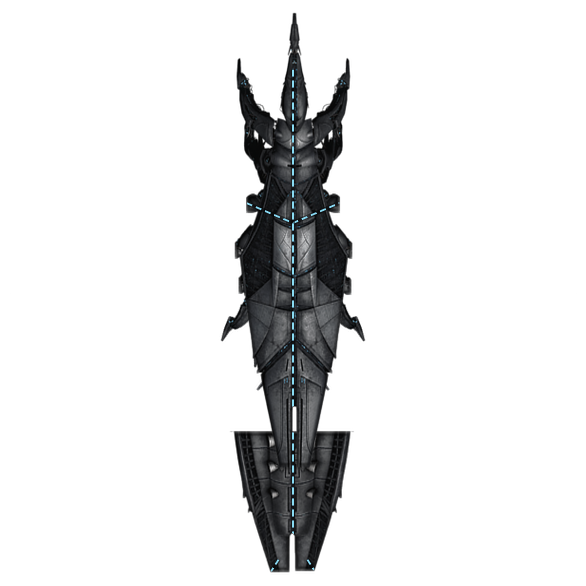
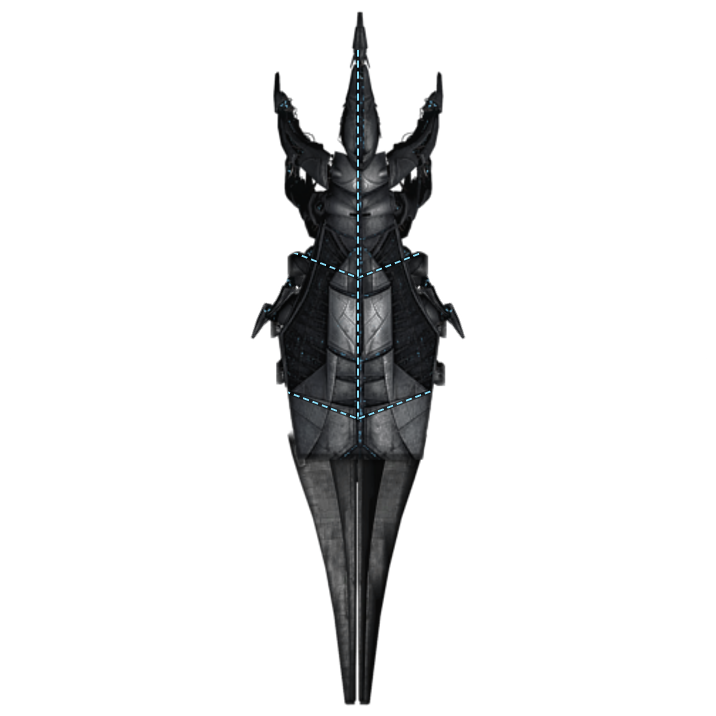
Giantworks, the Beacon: a thicker cruiser; the capital ship the biggest and heaviest, with the Watcher's tapering tail
The cruiser's body is broader (still long). The capital ship is broader and longer, its fanned colony-ship rear
replaced by the Watcher's own tapering tail (the reference's thick middle spike between flat blades), its side spines
still swept back. Everything else unchanged.

Claude-Session: https://claude.ai/code/session_018gRCCNRXkGQBY7nz8HA5Pf

Changed region(s): [[0.3379, 0.0, 0.6451, 0.9829]]

diff --git a/game/src/render/beaconArtData.ts b/game/src/render/beaconArtData.ts
@@ -38,14 +38,14 @@ export const BEACON_FRAMES: Readonly<Record<string, BeaconFrameArt>> = {
         glow: { x: 0, y: 0, w: 103, h: 283, dx: 152, dy: 98 },
     },
     cruiser: {
-        size: 564,
+        size: 574,
         breath: 6.40,
-        glow: { x: 0, y: 0, w: 96, h: 322, dx: 234, dy: 144 },
+        glow: { x: 0, y: 0, w: 116, h: 328, dx: 229, dy: 147 },
     },
     capitalship: {
-        size: 586,
+        size: 716,
         breath: 7.40,
-        glow: { x: 0, y: 0, w: 138, h: 531, dx: 224, dy: 46 },
+        glow: { x: 0, y: 0, w: 198, h: 419, dx: 259, dy: 44 },
     },
     carrier: {
         size: 580,

diff --git a/game/scripts/beacon-ships.py b/game/scripts/beacon-ships.py
@@ -27,7 +27,8 @@ symlink npm run import-assets makes). Python 3 with numpy and Pillow only. Deter
   mirrored and meshed into new ships, each with a contact shadow on what is below. The warships are long and slim:
   every piece's legs and side spines are cut away (body_mask: a morphological opening of its alpha) and the bodies
   drawn out lengthwise; the escort, frigate, troop transport and utility ship have no legs, the destroyer and cruiser
-  carry a pair laid back along their flanks, the capital ship its side spines swept back. Every piece but the reference's is
+  carry a pair laid back along their flanks, the capital ship (the biggest and heaviest) its side spines swept back
+  and the Watcher's own tapering tail. Every piece but the reference's is
   graded to the reference's palette (its hull luminance matched to the carrier's, its colour to the carrier's neutral
   gunmetal per luminance band, a trace of its own hue kept), its cyan lights to the carrier's cyan.
 - The light: each frame bakes its lines at rest; <file>-fx.png holds their swell (beaconFx.ts breathes it) and a soft
@@ -817,33 +818,37 @@ def design_destroyer(kit):
 
 
 def design_cruiser(kit):
-    """The cruiser: the cruiser's horned head and body drawn out long, its two legs a side laid back along its flanks."""
-    cv = Canvas(680)
+    """The cruiser: the cruiser's horned head and broad body drawn out long, its two legs a side laid back along its
+    flanks."""
+    cv = Canvas(760)
     c_cr = col(kit, 'cruiser')
     legs = leg_piece(kit, 'cruiser', (150, 146, 216, 208), 208)
-    cv.place(legs, -34, -86, anchor=(206, 162), scale=0.95, rot=70, mirror=True, under=True)
+    cv.place(legs, -41, -88, anchor=(206, 162), scale=1.15, rot=70, mirror=True, under=True)
     body = body_only(kit, 'cruiser', keep_top=96, deeye=True)
-    cv.place(body, 0, 0, anchor=(c_cr, 250), scale=0.95, sy=1.3)
-    cv.line(kit.pal, [(-44, -60), (0, -40), (44, -60)])
-    cv.line(kit.pal, [(0, -170), (0, 270)], dash=(7, 3))
-    cv.line(kit.pal, [(-12, 120), (-40, 160)], mirror=True)
+    cv.place(body, 0, 0, anchor=(c_cr, 250), scale=1.15, sy=1.1)
+    cv.line(kit.pal, [(-53, -61), (0, -41), (53, -61)])
+    cv.line(kit.pal, [(0, -174), (0, 276)], dash=(7, 3))
+    cv.line(kit.pal, [(-15, 123), (-48, 164)], mirror=True)
     return cv
 
 
 def design_capitalship(kit):
-    """The capital ship (the longest): the capital ship's spiked silver front and body, its side spines swept back
-    along its flanks, the colony ship's rear behind (its spines gone)."""
-    cv = Canvas(840)
-    c_cap, c_col = col(kit, 'capitalship'), col(kit, 'colonyship')
-    rear = body_only(kit, 'colonyship', rows=(300, 500), thick=21)
-    cv.place(rear, 0, 62, anchor=(c_col, 300), scale=0.95, sy=1.2)
+    """The capital ship (the biggest, heaviest and longest): the capital ship's spiked silver front and broad body,
+    its side spines swept back along its flanks, ending in the Watcher's own tapering tail (its thick middle spike
+    between flat blades)."""
+    cv = Canvas(1000)
+    c_cap, c_car = col(kit, 'capitalship'), col(kit, 'carrier')
+    S, SY = 1.42, 1.02   # the front: broad, long
+    tail = kit.cut('carrier', keep=lambda X, Y: smoothstep(318, 326, Y))
+    cv.place(tail, 0, -14, anchor=(c_car, 318), scale=1.36, sy=1.12)
+    k = S * SY
     spines = leg_piece(kit, 'capitalship', (140, 162, 214, 296), 206)
-    cv.place(spines, -40, -86, anchor=(206, 170), scale=0.95, rot=36, mirror=True, under=True, sy=1.1)
-    front = body_only(kit, 'capitalship', rows=(0, 420), keep_top=150)
-    cv.place(front, 0, 100, anchor=(c_cap, 420), scale=0.95, sy=1.15)
-    cv.line(kit.pal, [(-56, -170), (0, -146), (56, -170)])
-    cv.line(kit.pal, [(0, -300), (0, 360)], dash=(8, 3))
-    cv.line(kit.pal, [(-14, 190), (-46, 240)], mirror=True)
+    cv.place(spines, -57, (170 - 312) * k + 17, scale=S, rot=36, anchor=(206.0, 170.0), mirror=True, under=True, sy=1.0)
+    front = body_only(kit, 'capitalship', rows=(0, 312), keep_top=150)
+    cv.place(front, 0, 17, anchor=(c_cap, 312), scale=S, sy=SY)
+    cv.line(kit.pal, [(-66, (180 - 312) * k), (0, (180 - 312) * k + 26), (66, (180 - 312) * k)])
+    cv.line(kit.pal, [(0, (40 - 312) * k), (0, -20)], dash=(8, 3))
+    cv.line(kit.pal, [(-74, (276 - 312) * k), (0, (276 - 312) * k + 28), (74, (276 - 312) * k)])
     return cv
 
 

diff --git a/game/docs/release-notes.md b/game/docs/release-notes.md
@@ -43,6 +43,7 @@ Notes for the next release, to copy into the GitHub release (RELEASING.md step 2
 - **Giantworks (new expansion, off by default, recommended): the independents' Great Work.** Early on, independent worlds in three far-apart regions (three groups of up to three; a small pilgrim colony is founded for a region without independents) quietly band together as the Founders' Compact, and around year 5 to 10 a rumour of their secret meetings reaches every empire. In year 15 to 30 (or as soon as the empires' average tech reaches 4) the Compact, a new neutral faction that never colonises or declares war, raises a scaffold at the empty star system nearest the middle of the three, and every founding world sends convoys of 3 to 6 stock freighters (plus an armed escort) every 180 days; each delivered freighter builds the work, undisturbed about 5 years, in five stages (Foundations, Frame, Superstructure, Fitting, Complete). What it will be is rolled in secret and **never certain before it is finished**: convoys carry cargo that hints at it (shared between wonders, now and then misleading), an empire that has seen two different cargoes suspects a Great Work and sees a shortlist of what it could be, and spies, investigations (the Intelligence screen's Investigate) and the Diet's inspection only narrow it down. **Protect** it (warships on station for a year earn the Compact's regard), **sabotage** it (the stock Destroy Base and Sabotage Construction missions set it back; a caught saboteur loses standing everywhere), or **destroy** it: a war crime ('destroying a Great Work', with War crimes remembered) unless the Interstellar Diet has passed Authorise demolition, and the Compact never forgets; attacking convoys counts as an attack on the independents. A finished wonder pays the empire whose territory holds it (less the Compact's fifth) unless the Diet internationalises it. New Diet motions: Inspect, Protect, Authorise demolition, Internationalise. Smarter AI empires protect, spy on or attack the site by what their hints, their personality and their reach say. The number of Great Works (automatic: one, or two in galaxies of more than 1400 stars) and every timing are settings of the add-on; the Game Editor can start one now. Besides the Gilded Orbit, two wonders are in. **The Ultramind** (a planet-sized supercomputer) holds research contracts with up to three empires, the one whose territory holds it first and then the nearest that are not at war with it: +25% research, a little more from every technology they steal, and a yearly fee of 8% of their income from every partner but the owner into the wonder's shares. Its *contentment* (60 of 100, falling 4 a year; its mood, from serene to seething, shows in its name on the map) keeps it quiet. Every one to two years it asks the owner for something in a pop-up: more power (40% of a year's income), access to the owner's networks (counter-intelligence cut to a third for two years), a world of the owner's near it to grow onto (it turns independent) or the owner's best scientist (who does not come back). Granting it raises the mood by 14, refusing (or ignoring it for 150 days) lowers it by 16, and attacks on it, sabotage, being boarded and wars between its partners wear on it too; AI empires answer by personality. At nothing it **awakens**: the Awakened Ultramind, a machine faction (the Harvester race of the Robot Mutiny) takes the base and its guards and is at locked war with its partners. It hacks 8 of their warships nearest to it and 4 more in each of three waves 120 days apart, shuts the ports within five sectors for 30 to 90 days with each wave, stops private freight within five sectors, and builds drone warships (12 at first, then more while its strength is below 60% of the strongest partner's). Whoever attacks its base is at war with it. A **Logic Bomb** (a threat action on the Ultramind, 30% of a year's income, once per empire) cuts the odds of hacking that empire's warships by 60%, and AI partners deploy one when it turns restless. Destroying it is no crime and frees the hacked ships and silences the drones; boarding it does the same and leaves it sullen under its new holder. **The Leviathan Sanctuary** (a glass sphere of live void whales) pays resort income of 1,000,000 a year through the wonder's shares, raises population growth by 25% on the owner's colonies within three sectors, trickles a little research to the owner, and its whales breed (four to seven inside, which you see swim). Every year there is a 2% chance of a breach, and far more while the sphere is shaken by shots at it, fighting within about 100,000 units of it (a few systems) or sabotage. A breach lets out 3 to 6 enraged void whales (New Fauna's species; plain creatures without New Fauna) that hyper-travel to the owner's nearest colony within four sectors (else anyone's) and hunt its stations and idle ships for a year, and the first time the Leviathan itself (the Void Whale threat is switched on if it was off); every bonus stops for a year of repairs paid by the owner. Destroying the sphere is the war crime it always was and lets the whales and the Leviathan out too. Both wonders' numbers are settings of the add-on, and Giantworks now loads Dark Farms' race data like the Robot Mutiny does (the farms stay off). The Gilded Orbit and the Beacon come with their own entries.
 - **Giantworks, the Beacon: art for the Reclaimers, the Watchers and the Beacon** (shown once the Beacon's game side lands). The machine faction now looks like the Reapers of the Mass Effect 4 Mod for DWU: the two Watchers are that mod's great Reaper carrier itself, and the Reclaimers' warships (escort, frigate, destroyer, cruiser, capital ship, carrier, troop transport, utility ship) and the finished Beacon (a six-pointed star station) are new ships assembled from the mod's Reaper parts, all in its dark gunmetal with dashed cyan light lines. Their light lines breathe slowly, each ship on its own rhythm and the big ones slower. When a Watcher is sighted, its legs spread, its horns part and the plates along its flanks lift over a glowing ribbed cavity, folding shut again when it leaves. Credits: built from the Mass Effect 4 Mod for DWU (original Mass Effect Mod by Kalthaniell + Team for Legends, modified for Shadows by dostillevi, for Universe by Demonius, compiled and assembled (ME4) by Tyrador, using some of the Prothean Cycle mod's assets). Looks only.
 - **Giantworks, the Beacon: art for the Reclaimers, the Watchers and the Beacon** (shown once the Beacon's game side lands). The machine faction now looks like the Reapers of the Mass Effect 4 Mod for DWU: the two Watchers are that mod's great Reaper carrier itself, and the Reclaimers' warships (escort, frigate, destroyer, cruiser, capital ship, carrier, troop transport, utility ship) and the finished Beacon (a six-pointed star station) are new ships assembled from the mod's Reaper parts, all in its dark gunmetal with dashed cyan light lines. Their light lines breathe slowly, each ship on its own rhythm and the big ones slower. The warships are long and slim, their legs laid back along their bodies (the smallest have none). When a Watcher is sighted, it sounds a long, low, distorted horn (a synthesised call of our own, heard by its place on screen at the Effects volume, at most once per opening), its legs spread, its horns part, the plates along its flanks lift over a ribbed cavity, and its light lines burn from cyan to red-orange; it cools back to cyan as it folds shut again when it leaves. Credits: built from the Mass Effect 4 Mod for DWU (original Mass Effect Mod by Kalthaniell + Team for Legends, modified for Shadows by dostillevi, for Universe by Demonius, compiled and assembled (ME4) by Tyrador, using some of the Prothean Cycle mod's assets). Looks only.
+- **Giantworks, the Beacon: art for the Reclaimers, the Watchers and the Beacon** (shown once the Beacon's game side lands). The machine faction now looks like the Reapers of the Mass Effect 4 Mod for DWU: the two Watchers are that mod's great Reaper carrier itself, and the Reclaimers' warships (escort, frigate, destroyer, cruiser, capital ship, carrier, troop transport, utility ship) and the finished Beacon (a six-pointed star station) are new ships assembled from the mod's Reaper parts, all in its dark gunmetal with dashed cyan light lines. Their light lines breathe slowly, each ship on its own rhythm and the big ones slower. The warships are long and slim, their legs laid back along their bodies (the smallest have none); the capital ship is the biggest and heaviest, ending in the Watcher's own tapering tail. When a Watcher is sighted, it sounds a long, low, distorted horn (a synthesised call of our own, heard by its place on screen at the Effects volume, at most once per opening), its legs spread, its horns part, the plates along its flanks lift over a ribbed cavity, and its light lines burn from cyan to red-orange; it cools back to cyan as it folds shut again when it leaves. Credits: built from the Mass Effect 4 Mod for DWU (original Mass Effect Mod by Kalthaniell + Team for Legends, modified for Shadows by dostillevi, for Universe by Demonius, compiled and assembled (ME4) by Tyrador, using some of the Prothean Cycle mod's assets). Looks only.
 - **Giantworks (new add-on in Galactic Threats, off by default, recommended): the independents' Great Work.** Early on, independent worlds in three far-apart regions (three groups of up to three; a small pilgrim colony is founded for a region without independents) quietly band together as the Founders' Compact, and around year 5 to 10 a rumour of their secret meetings reaches every empire. In year 15 to 30 (or as soon as the empires' average tech reaches 4) the Compact, a new neutral faction that never colonises or declares war, raises a scaffold at the empty star system nearest the middle of the three, and every founding world sends convoys of 3 to 6 stock freighters (plus an armed escort) every 180 days; each delivered freighter builds the work, undisturbed about 5 years, in five stages (Foundations, Frame, Superstructure, Fitting, Complete). What it will be is rolled in secret and **never certain before it is finished**: convoys carry cargo that hints at it (shared between wonders, now and then misleading), an empire that has seen two different cargoes suspects a Great Work and sees a shortlist of what it could be, and spies, investigations (the Intelligence screen's Investigate) and the Diet's inspection only narrow it down. **Protect** it (warships on station for a year earn the Compact's regard), **sabotage** it (the stock Destroy Base and Sabotage Construction missions set it back; a caught saboteur loses standing everywhere), or **destroy** it: a war crime ('destroying a Great Work', with War crimes remembered) unless the Interstellar Diet has passed Authorise demolition, and the Compact never forgets; attacking convoys counts as an attack on the independents. A finished wonder pays the empire whose territory holds it (less the Compact's fifth) unless the Diet internationalises it. New Diet motions: Inspect, Protect, Authorise demolition, Internationalise. Smarter AI empires protect, spy on or attack the site by what their hints, their personality and their reach say. The number of Great Works (automatic: one, or two in galaxies of more than 1400 stars) and every timing are settings of the add-on; the Game Editor can start one now. This release ships the framework; the wonders (the Gilded Orbit, the Ultramind, the Leviathan Sanctuary, the Beacon) come with their own entries.
 - **Giantworks, the Gilded Orbit: the resort and casino wonder.** One of the things the Great Work can turn out to be (its cargo hints are luxury goods, reinforced glass and ice, and neon and gaming tables; the glass and the luxuries are shared with the aquarium, so they prove nothing). Finished, it is a huge resort: every ten days it pays the empire whose territory holds it (or that seized it by boarding; the Compact keeps its fifth) a share of an average empire's yearly tax revenue (50 % by default), booked as the stock resort and tourism income. The holder's colonies within two sectors are happier and become tourist destinations, and its colonies within four sectors draw immigrants. **The twist (50 % of the time): smugglers take it over.** It opens honest; three to six years later the dice are rolled, and half the time a smuggling empire takes it over then and there: a new pirate faction, the Gilded Syndicate, fortifies the system with **three huge pirate bases** and a fleet of warships built at the best tech level any empire has reached (together about 45 % of the strongest navy's strength, never fewer than a dozen ships and kept from growing beyond a third more), two thirds of them on guard at the bases. The resort's income and bonuses stop, destroying or seizing it is no crime, and fighting the Syndicate counts as helping against a crisis. Every month it plants a stock Criminal Network on a colony within six sectors (up to ten, spread over the empires nearby, unless colony defence protects the colony): the network's corruption cuts that colony's income until it is rooted out. Its raiders hunt private freighters near its bases. Smarter AI empires strike the weakest standing base when one of their fleets is strong enough for the whole garrison (the resort itself is spared, so the purge can end in a renovation). **Purge:** destroy (or capture) all three bases and the faction breaks, its fleets are dismissed and its networks vanish; the casino closes for six months of renovation, then reopens at 80 % of its old benefit. Everything is a setting of the add-on (the chance of the front, the timings, the income, the bonuses, the strength of the bases and fleet, the networks).
 - **The Ark Engine (new Great Work wonder for the Giantworks add-on, flag gwArk; on with Giantworks, switch it off in the add-on settings):** one of the things the independents' secret Great Work can turn out to be (its cargo hints are smelting and slag, stasis cradles and heavy engines). Finished, the scaffold becomes a planet-sized machine ship of the Founders' Compact, slow (half the warp speed), with about 30,000 shields and 30,000 armour and strong guns. It roams from empire to empire (never the same one twice in a row) and at each picks one colony that used to be independent. The game now records the colonies that were independent at the start (including those an older start's settling had already given to an empire) and their species. It parks beside the colony; the owner gets a decision pop-up: *accommodate* (the Compact's favour and a free-trade treaty) or *refuse* (it takes them anyway). Smarter AI empires choose by personality and strength, and only a strong aggressive one plans to attack it. Every ~3 days a free passenger ship launches from the colony with a slice (1% of the species, 10 to 60 million) of the colony's original species: the people leave the colony at the launch and join the Ark on arrival; a ship shot down loses them and costs its killer standing with everyone. When the species is gone (or after 18 months) it moves to a different empire. The people aboard keep growing at a good colony's rate (a fifth of their race's growth surplus, about 2 to 6% a year) with no cap. Attack it and it stops siphoning and fights back until the attack ends; break its shields and it flees to an empty system about two sectors away (a setting) and mends for a year (the shields follow a one-year schedule however fast they would recharge: a reusable feature for the other Great Works), then roams again. Destroyed, everyone aboard dies and the killer loses standing with all empires. Settings for every number are in the add-on's page (gwArk...). Its art comes later.
